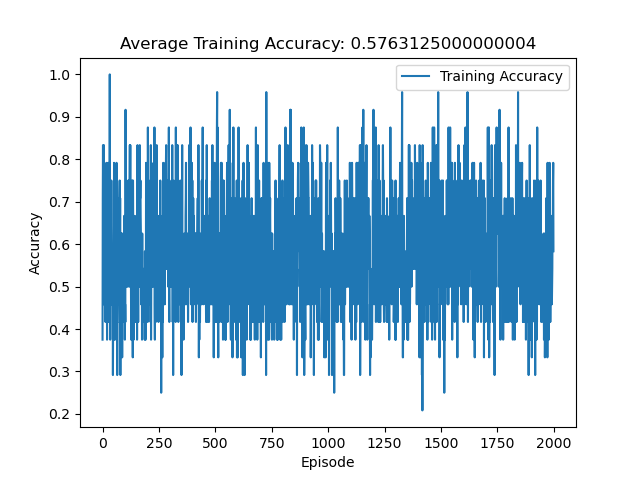
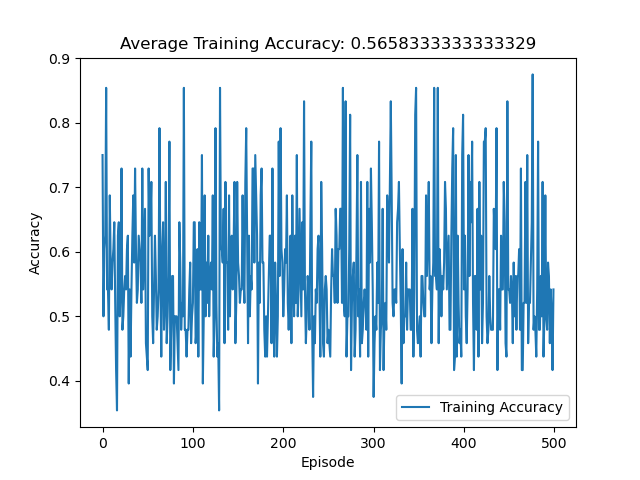
test results

diff --git a/cnn_lstm.py b/cnn_lstm.py
@@ -1,20 +1,5 @@
 
-import math
-import random
-import numpy as np
-import matplotlib
-import matplotlib.pyplot as plt
-from collections import namedtuple, deque
-from itertools import count
-from PIL import Image
-from tqdm import tqdm
-
-import torch
-import torch.nn as nn
-import torch.optim as optim
-import torch.nn.functional as F
-import torchvision.transforms as T
-from torchvision import models
+import os
 
 
 from dataset import market_graph_dataset
@@ -38,7 +23,7 @@ from torchvision import models
 
 device = torch.device("cuda" if torch.cuda.is_available() else "cpu")
 
-SEQUENCE_LENGTH = 8
+SEQUENCE_LENGTH = 24
 ENCODING_DIM = 16 #dimension of the encoding layer from each CNN
 REPLAY_MEMORY = 64
 BATCH_SIZE = 4
@@ -47,11 +32,11 @@ EPS_START = 0.3
 EPS_END = 0.05
 EPS_DECAY = 200
 TARGET_UPDATE = 25
-NUM_EPISODES = 2000
-STEPS_PER_EP = 24
+NUM_EPISODES = 500
+STEPS_PER_EP = 48
 DATA_ROOT = './data/hourly/'
 VALIDATION_SPLIT = .2
-VALIDATION_EPISODES = 500
+VALIDATION_EPISODES = 200
 
 
 class environment:
@@ -104,7 +89,7 @@ class environment:
         done = 0
 
         #make sure to accomodate bounds of the sequence
-        if(self.cur_time_step+self.sequence_length == self.max_steps):
+        if(self.cur_time_step+self.sequence_length == self.max_steps - 1):
             done = 1
 
         #update to the next time_step
@@ -176,9 +161,9 @@ class Ensemble(nn.Module):
         self.cnn4.train()
         self.cnn5.train()
 
-        self.lstm = nn.LSTM(cnn1.fc.out_features*5, hidden_size=256, num_layers=3)
-        self.fc1 = nn.Linear(256, 128)
-        self.fc2 = nn.Linear(128, num_classes)
+        self.lstm = nn.LSTM(cnn1.fc.out_features*5, hidden_size=256, num_layers=3).to(device)
+        self.fc1 = nn.Linear(256, 128).to(device)
+        self.fc2 = nn.Linear(128, num_classes).to(device)
 
     def forward(self, sequence):
         #this condition handles a batch of states versus a single state containing 5 images
@@ -340,6 +325,20 @@ plt.savefig('./Training_base_cnn_lstm.png')
 # clear plot for next iteration
 plt.clf()
 
+'''##################################################################'''
+'''#################### Save the model ##############################'''
+'''##################################################################'''
+
+def save_model(fit_model,experiment_name):
+    # Create requisite directory structure
+    outdir ='./models/'+str(experiment_name)+'/'
+    if not os.path.exists(outdir):
+        os.makedirs(outdir, exist_ok=True)
+
+    #Save trained model weights
+    torch.save(fit_model.state_dict(), outdir+str(experiment_name)+'.pt')
+
+save_model(target_net,'cnn_lstm')
 
 
 '''##################################################################'''
@@ -411,7 +410,7 @@ for i_episode in range(VALIDATION_EPISODES):
 print('Complete')
 
 # Plot and save loss
-X_axis = list(range(NUM_EPISODES))
+X_axis = list(range(VALIDATION_EPISODES))
 cur_plot = plt.figure()
 plt.plot(X_axis, episode_accuracy, label='Validation Accuracy')
 
@@ -425,3 +424,5 @@ plt.savefig('./Validation_base_cnn_lstm.png')
 
 # clear plot for next iteration
 plt.clf()
+
+
